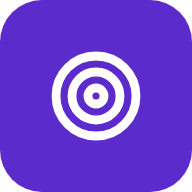
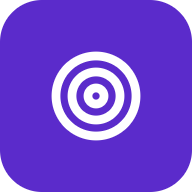
Atualização do projeto — 27/11/2026, 19:46:45

diff --git a/css/inicio.css b/css/inicio.css
@@ -14,16 +14,16 @@
   --cor-hover-fundo: #faf7ff;
 }
 * { margin: 0; padding: 0; box-sizing: border-box; font-family: 'Inter', sans-serif; }
-body { background: #fff; min-height: 100vh; }
+body { background: #fff; min-height: 100vh; overflow-x: hidden; }
 
 .app-wrapper {
   max-width: 700px; width: 100%; margin: 0 auto; background: #fff;
-  min-height: 100vh; display: flex; flex-direction: column; padding-bottom: 100px;
+  min-height: 100vh; display: flex; flex-direction: column; padding-bottom: calc(110px + env(safe-area-inset-bottom));
 }
 
 /* HEADER */
 .header {
-  background: #fff; padding: 16px 20px; display: flex; align-items: center;
+  background: #fff; padding: 14px 16px; display: flex; align-items: center;
   justify-content: space-between; gap: 12px; box-shadow: 0 2px 10px rgba(var(--cor-primaria-rgb),0.06);
   position: sticky; top: 0; z-index: 10;
 }
@@ -48,36 +48,41 @@ body { background: #fff; min-height: 100vh; }
 .pasta-progresso-badge-icone { flex-shrink: 0; }
 .pasta-progresso-badge-texto { max-width: 110px; overflow: hidden; text-overflow: ellipsis; }
 
-/* HERO CARD */
-.etapa-view { padding: 16px 16px 4px; }
+/* HERO CARD — card do módulo (módulo, disciplina, etapa, ícone) */
+.etapa-view { padding: 14px 16px 4px; }
 .hero-card {
+  display: flex; align-items: center; justify-content: space-between; gap: 12px;
   background: linear-gradient(135deg, var(--cor-clara) 0%, var(--cor-borda-clara) 100%);
-  border-radius: 24px; padding: 24px 20px 28px; cursor: pointer;
+  border-radius: 24px; padding: 18px 20px; cursor: pointer;
   box-shadow: 0 4px 20px rgba(var(--cor-primaria-rgb),0.08);
-  transition: box-shadow .2s, padding .25s;
+  transition: box-shadow .2s;
 }
 .hero-card:hover { box-shadow: 0 6px 24px rgba(var(--cor-primaria-rgb),0.12); }
-.hero-card.collapsed { padding: 20px 20px; }
+.hero-textos { min-width: 0; flex: 1; }
+.hero-icone { width: 64px; height: 64px; flex-shrink: 0; color: var(--cor-primaria); opacity: .35; }
 
 .nivel-selector {
-  display: flex; align-items: center; justify-content: center; gap: 6px; color: var(--cor-primaria);
-  font-size: 15px; font-weight: 600; margin-bottom: 10px; cursor: pointer;
+  display: inline-flex; align-items: center; gap: 6px; color: var(--cor-primaria);
+  font-size: 16px; font-weight: 700; margin-bottom: 2px; cursor: pointer;
 }
 .nivel-selector svg { width: 14px; height: 14px; transition: transform .2s; }
 .nivel-selector.collapsed svg { transform: rotate(180deg); }
 
-.hero-content { overflow: hidden; max-height: 200px; opacity: 1; transition: max-height .25s ease, opacity .2s ease; }
-.hero-content.collapsed { max-height: 0; opacity: 0; }
-.hero-materia { display: block; text-align: center; font-size: 12px; font-weight: 800; text-transform: uppercase; letter-spacing: .6px; color: #7c5cd6; margin-bottom: 4px; }
-.hero-title { text-align: center; font-size: 21px; font-weight: 700; color: #1a1a2e; margin-bottom: 14px; }
+.hero-title { font-size: 22px; line-height: 1.2; font-weight: 800; color: #1a1a2e; overflow-wrap: anywhere; }
+.hero-etapa { margin-top: 4px; font-size: 14.5px; color: #6b7280; overflow-wrap: anywhere; }
+.hero-etapa:empty { display: none; }
 
+/* PROGRESSO DO MÓDULO — área própria abaixo do card */
+.modulo-progresso { margin-top: 10px; padding: 12px 6px 4px; }
+.modulo-progresso-topo { display: flex; align-items: baseline; justify-content: space-between; margin-bottom: 8px; font-size: 14px; color: #6b7280; font-weight: 500; }
+.modulo-progresso-pct { font-size: 17px; font-weight: 800; color: var(--cor-primaria); }
 .progress-segments { display: flex; gap: 6px; }
 .progress-segments .segment { flex: 1; height: 10px; border-radius: 6px; background: rgba(var(--cor-primaria-rgb),0.15); }
 .progress-segments .segment.filled { background: var(--cor-primaria); }
-.hero-card.etapa-completa .segment.filled { box-shadow: 0 0 10px rgba(var(--cor-primaria-rgb),0.7); }
+.etapa-view.etapa-completa .progress-segments .segment.filled { box-shadow: 0 0 10px rgba(var(--cor-primaria-rgb),0.7); }
 
 /* PATH */
-.path-container { position: relative; padding: 24px 32px 8px; overflow: hidden; max-height: 4000px; transition: max-height .25s ease, padding .25s; }
+.path-container { position: relative; padding: 18px 20px 8px; overflow: hidden; max-height: 4000px; transition: max-height .25s ease, padding .25s; }
 .path-container.collapsed { max-height: 0; padding-top: 0; padding-bottom: 0; }
 .path-line, .path-line-lit {
   position: absolute; left: 50%; top: 24px; bottom: 8px; width: 3px; transform: translateX(-50%);
@@ -87,7 +92,10 @@ body { background: #fff; min-height: 100vh; }
 .path-line-lit { background: #FFD700; height: 0; bottom: auto; transition: height .3s ease; }
 
 .aula-node { position: relative; display: flex; flex-direction: column; align-items: center; padding: 10px 0 26px; text-align: center; }
-.aula-node.locked { opacity: .6; }
+.aula-node.locked { opacity: .75; }
+.aula-node-titulo { display: none; position: relative; z-index: 1; background: #fff; padding: 0 8px; max-width: 100%; margin-top: -2px; font-size: 13px; font-weight: 600; color: #9ca3af; overflow-wrap: anywhere; }
+.aula-node.locked .aula-node-titulo { display: block; }
+.aula-node.locked .aula-card { display: none; }
 
 .stars { display: flex; gap: 3px; margin-bottom: 6px; }
 .star { font-size: 18px; color: #e5e7eb; filter: drop-shadow(0 2px 4px rgba(255,215,0,0.3)); }
@@ -107,14 +115,40 @@ body { background: #fff; min-height: 100vh; }
 }
 .aula-card.locked { background: #f9fafb; border-color: #e5e7eb; box-shadow: none; }
 
+/* Aula atual: card roxo em destaque */
+.aula-card.atual {
+  background: linear-gradient(160deg, var(--cor-gradiente-1) 0%, var(--cor-primaria) 100%);
+  border-color: transparent; color: #fff; text-align: left; padding: 22px 20px 18px; border-radius: 26px;
+  box-shadow: 0 14px 30px rgba(var(--cor-primaria-rgb),0.35);
+}
+.aula-card.atual::before {
+  content: ''; position: absolute; top: -9px; left: 50%; width: 18px; height: 18px; transform: translateX(-50%) rotate(45deg);
+  background: var(--cor-gradiente-1); border-radius: 4px;
+}
+.aula-card.atual h3, .aula-card.atual .status { color: #fff; }
+.aula-card.atual .status { opacity: .85; }
+.aula-card.atual .aula-meta { color: rgba(255,255,255,.9); }
+.aula-card.atual .seg { background: rgba(255,255,255,.28); }
+.aula-card.atual .seg.cheio { background: #fff; }
+.aula-card.atual .btn-acao.ativa { background: #fff; color: var(--cor-primaria); }
+.aula-card.atual .btn-acao.ativa:hover { background: var(--cor-clara); box-shadow: none; }
+.aula-card.atual .btn-favoritar { border-color: rgba(255,255,255,.6); background: #fff; }
+
+.aula-meta { display: flex; align-items: baseline; justify-content: space-between; gap: 10px; margin-bottom: 10px; font-size: 14px; color: #6b7280; }
+.aula-etapa { min-width: 0; overflow-wrap: anywhere; }
+.aula-posicao { flex-shrink: 0; font-weight: 700; }
+.aula-segmentos { display: flex; gap: 6px; margin-bottom: 14px; }
+.aula-segmentos .seg { flex: 1; height: 8px; border-radius: 5px; background: var(--cor-borda-clara); }
+.aula-segmentos .seg.cheio { background: var(--cor-primaria); }
+
 @keyframes aula-card-destaque {
   0%, 100% { box-shadow: 0 6px 20px rgba(var(--cor-primaria-rgb),0.08); border-color: var(--cor-borda-clara); }
   50%      { box-shadow: 0 0 0 8px rgba(var(--cor-primaria-rgb),0.15), 0 6px 24px rgba(var(--cor-primaria-rgb),0.35); border-color: var(--cor-primaria); }
 }
 .aula-card.proxima-destaque { animation: aula-card-destaque 1.1s ease-in-out 2; }
-.aula-card h3 { font-size: 18px; font-weight: 700; color: #1a1a2e; margin-bottom: 6px; }
+.aula-card h3 { font-size: 18px; font-weight: 700; color: #1a1a2e; margin-bottom: 6px; overflow-wrap: anywhere; }
 .aula-card.locked h3 { color: #6b7280; }
-.status { font-size: 14px; color: #6b7280; margin-bottom: 14px; }
+.status { font-size: 13.5px; color: #6b7280; margin-bottom: 10px; }
 
 .progress-bar { height: 6px; border-radius: 4px; background: var(--cor-borda-clara); overflow: hidden; margin-bottom: 12px; }
 .progress-bar-fill { height: 100%; background: var(--cor-primaria); transition: width .3s; }
@@ -289,7 +323,7 @@ body { background: #fff; min-height: 100vh; }
 
 /* BOTTOM NAV */
 .bottom-nav {
-  position: fixed; bottom: 14px; left: 50%; transform: translateX(-50%); width: calc(100% - 32px); max-width: 460px;
+  position: fixed; bottom: calc(14px + env(safe-area-inset-bottom)); left: 50%; transform: translateX(-50%); width: calc(100% - 32px); max-width: 460px;
   background: #fff; border-radius: 28px; box-shadow: 0 8px 30px rgba(0,0,0,0.08); border: 1px solid var(--cor-clara);
   display: flex; padding: 8px; z-index: 20;
 }
